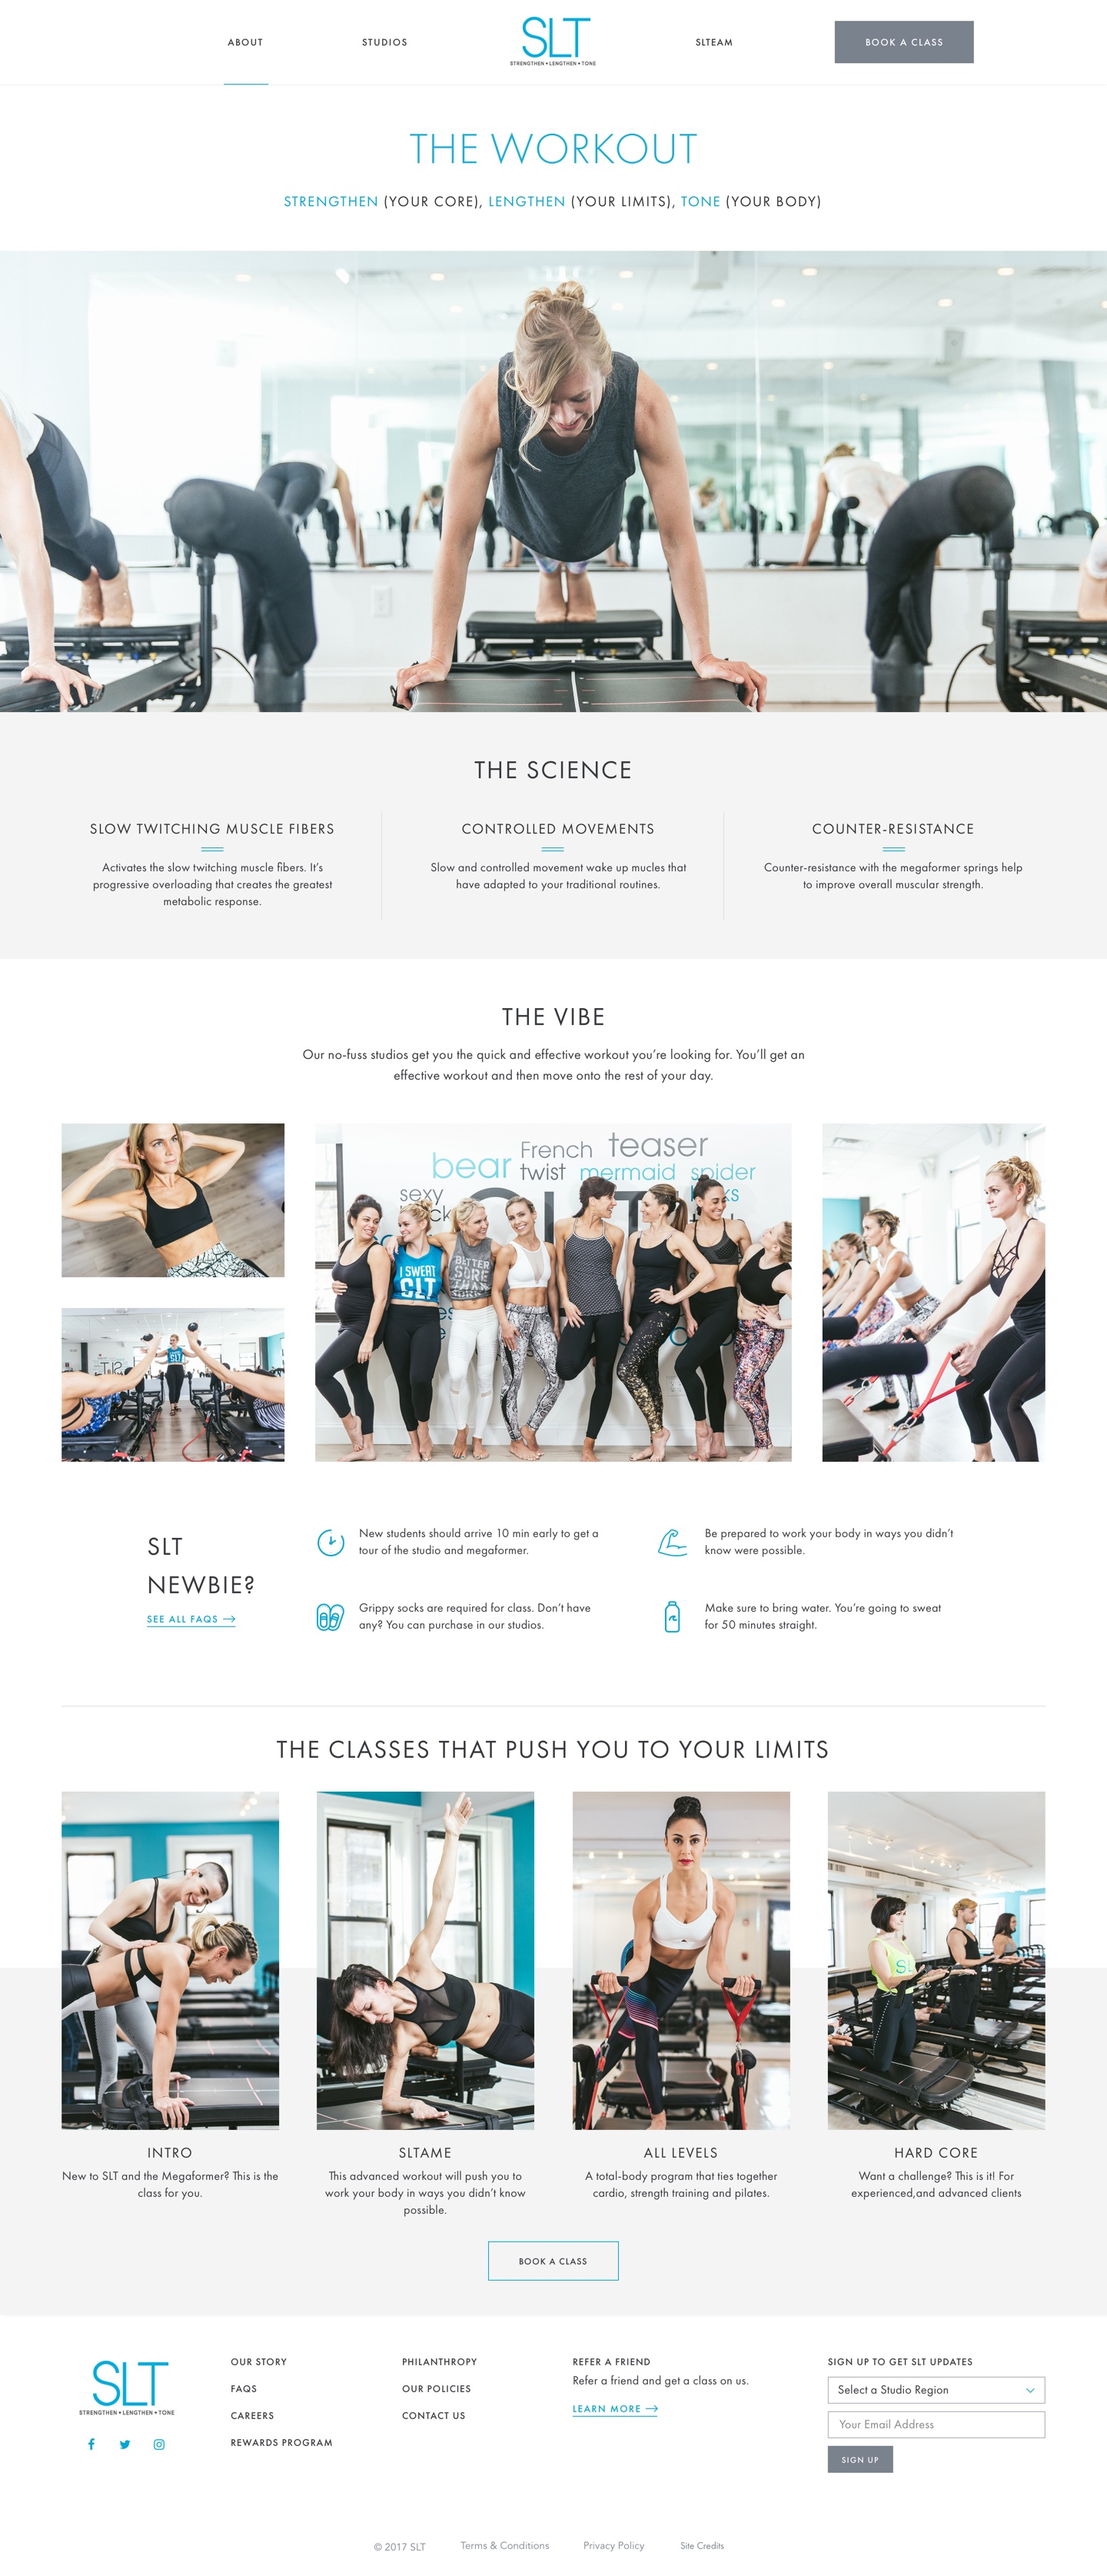
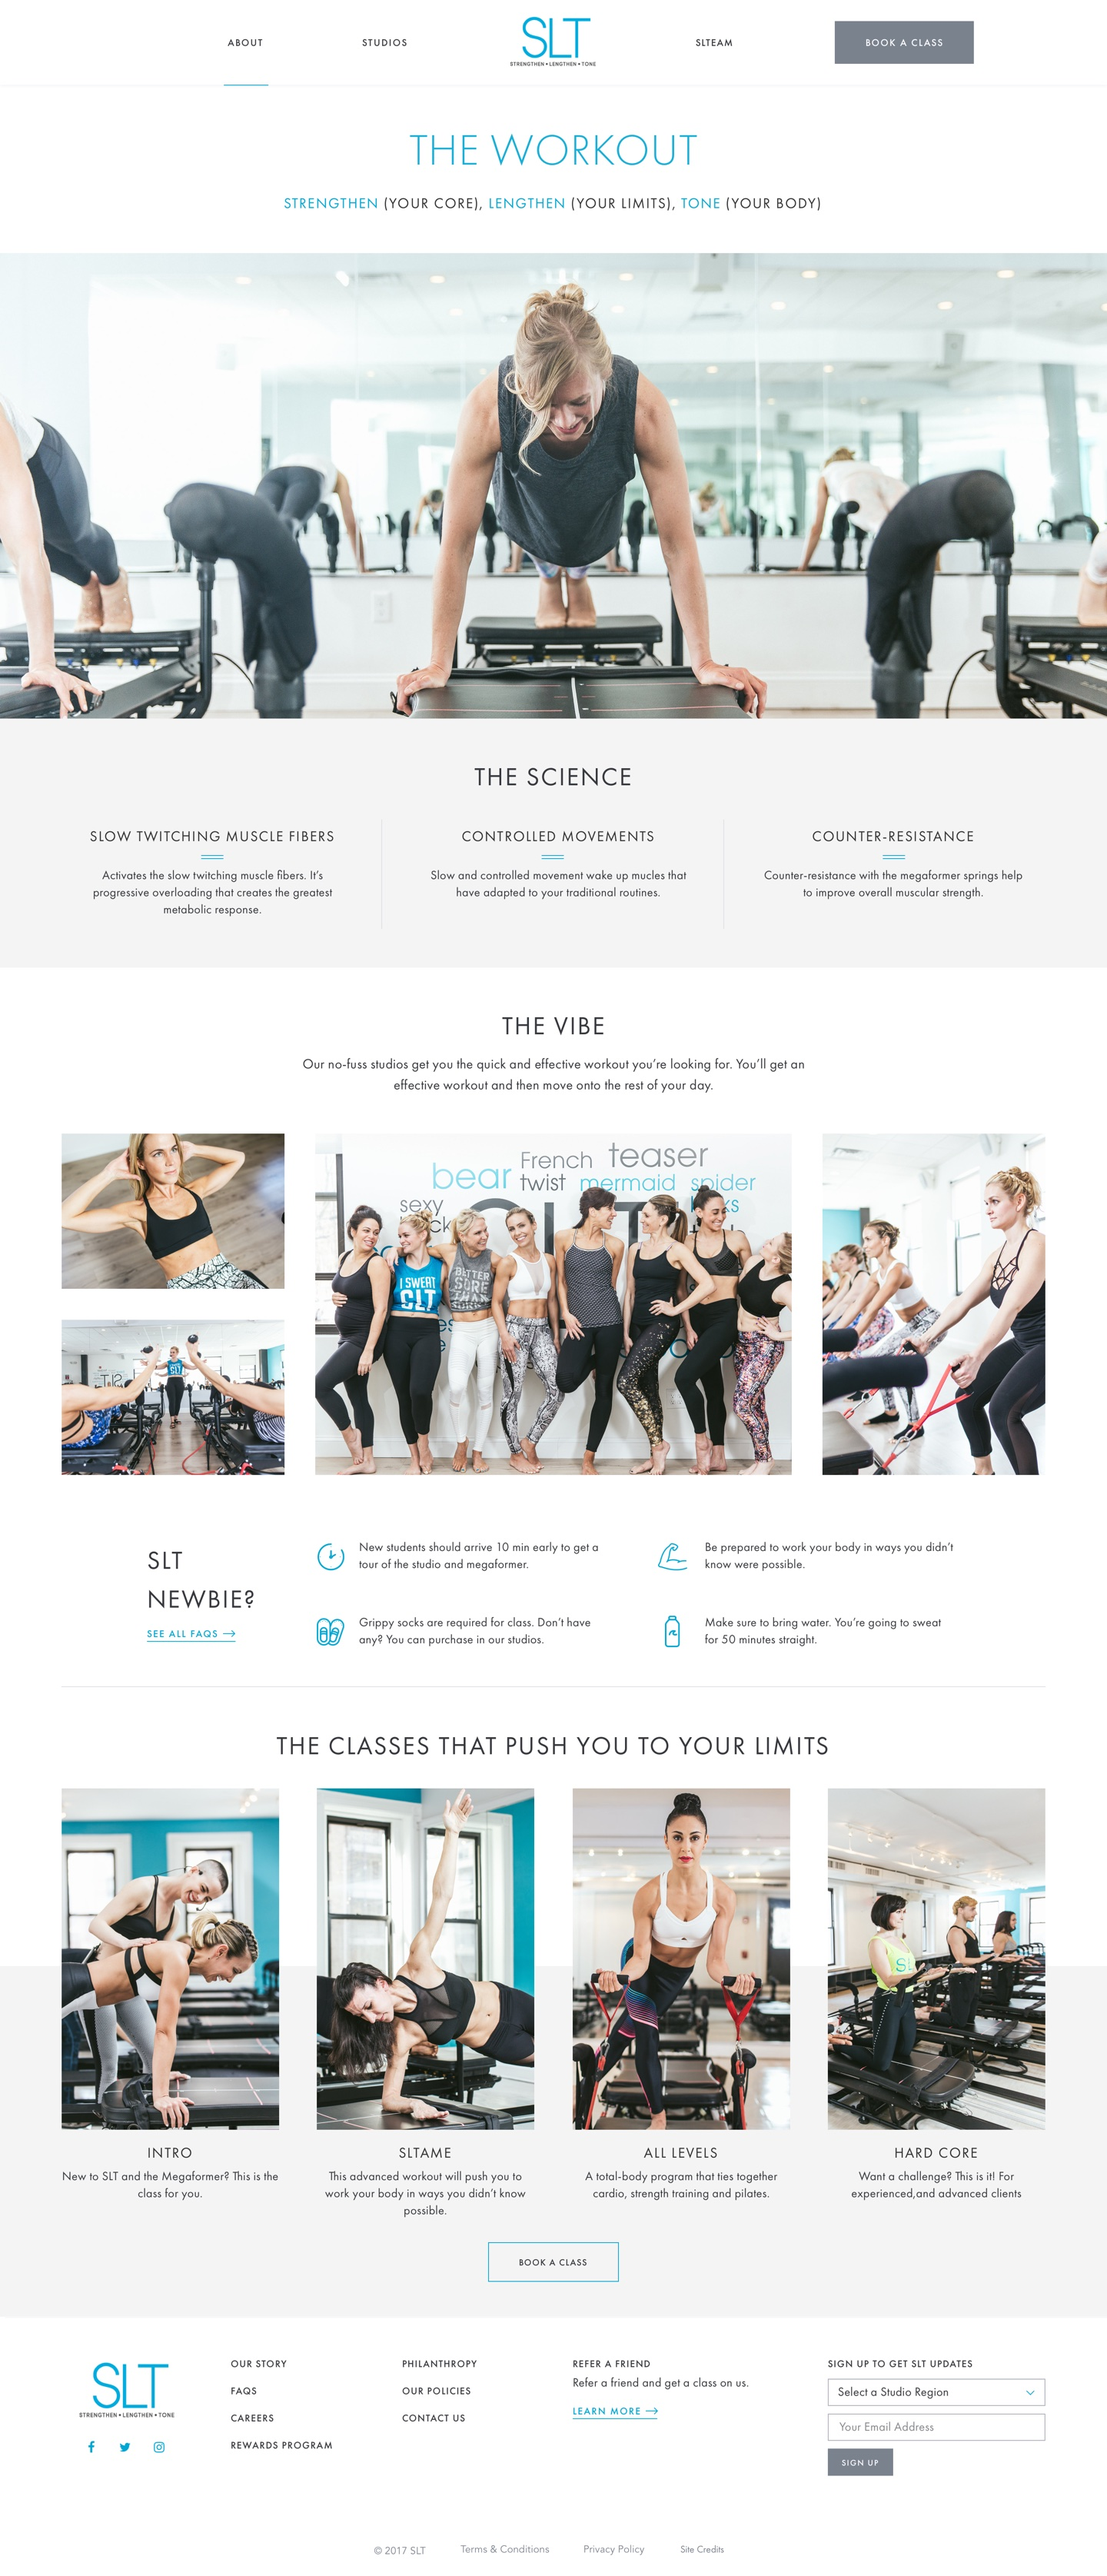
update spacing

diff --git a/slt2/slt-theworkout.hyperesources/slttheworkout_hype_generated_script.js b/slt2/slt-theworkout.hyperesources/slttheworkout_hype_generated_script.js
@@ -3,5 +3,5 @@
 (function(){(function k(){function l(a,b,d){var c=!1;null==window[a]&&(null==window[b]?(window[b]=[],window[b].push(k),a=document.getElementsByTagName("head")[0],b=document.createElement("script"),c=h,false==!0&&(c=""),b.type="text/javascript",b.src=c+"/"+d,a.appendChild(b)):window[b].push(k),c=!0);return c}var h="slt-theworkout.hyperesources",c="slt-theworkout",e="slttheworkout_hype_container";if(false==!1)try{for(var f=document.getElementsByTagName("script"),
 a=0;a<f.length;a++){var b=f[a].src,d=null!=b?b.indexOf("/slttheworkout_hype_generated_script.js"):-1;if(-1!=d){h=b.substr(0,d);break}}}catch(n){}if(false==!1&&(a=navigator.userAgent.match(/MSIE (\d+\.\d+)/),a=parseFloat(a&&a[1])||null,a=l("HYPE_584","HYPE_dtl_584",!0==(null!=a&&10>a||false==!0)?"HYPE-584.full.min.js":"HYPE-584.thin.min.js"),false==!0&&(a=a||l("HYPE_w_584","HYPE_wdtl_584","HYPE-584.waypoints.min.js")),a))return;f=window.HYPE.documents;
 if(null!=f[c]){b=1;a=c;do c=""+a+"-"+b++;while(null!=f[c]);d=document.getElementsByTagName("div");b=!1;for(a=0;a<d.length;a++)if(d[a].id==e&&null==d[a].getAttribute("HYP_dn")){var b=1,g=e;do e=""+g+"-"+b++;while(null!=document.getElementById(e));d[a].id=e;b=!0;break}if(!1==b)return}b=[];b=[{name:"untitledFunction",source:"function(hypeDocument, element, event) {\t\tmenu = hypeDocument.getElementById('menu');\n\t\tmenutwo = hypeDocument.getElementById('menutwo');\n\n\twindow.onscroll = function(){\n\t\tvar scroll = window.pageYOffset || (document.body.scrollTop || document.documentElement.scrollTop);\n\t\t\n\t\tvar menuDelta = 250;\n\t\tvar menutwoDelta = 250;\n\n\t\tif (scroll > menuDelta){\n\t\t\tmenu.classList.add('sticky')\n\t\t}\n\t\t\tif (scroll > menutwoDelta){\n\t\t\tmenutwo.classList.add('sticky')\n\t\t}\n\t\tif (scroll <= menuDelta){\n\t\t\tmenu.classList.remove('sticky')\n\t\t}\n\t\tif (scroll <= menutwoDelta){\n\t\t\tmenutwo.classList.remove('sticky')\n\t\t}\n\t};\t\n\t\n}",identifier:"15"}];d={};g={};for(a=0;a<b.length;a++)try{g[b[a].identifier]=b[a].name,d[b[a].name]=eval("(function(){return "+b[a].source+"})();")}catch(m){window.console&&window.console.log(m),d[b[a].name]=
-function(){}}a=new HYPE_584(c,e,{"3":{p:1,n:"Sticky%20Nav_v3_2x.jpg",g:"7",o:true,t:"@2x"},"-2":{n:"blank.gif"},"4":{n:"Hero-Concept-1.mov",g:"17",t:"video/quicktime"},"0":{p:1,n:"Play%20Button.png",g:"6",o:true,t:"@1x"},"5":{p:1,n:"Desktop%20-%20The%20Workout_v2.jpg",g:"5",o:true,t:"@1x"},"1":{p:1,n:"Play%20Button_2x.png",g:"6",o:true,t:"@2x"},"6":{p:1,n:"Desktop%20-%20The%20Workout_v2_2x.jpg",g:"5",o:true,t:"@2x"},"2":{p:1,n:"Sticky%20Nav_v3.jpg",g:"7",o:true,t:"@1x"},"-1":{n:"PIE.htc"}},h,[],d,[{n:"Version 1",o:"1",X:[0]},{n:"Version 2",o:"20",X:[1]}],[{A:{a:[{p:4,h:"15"}]},o:"3",p:"600px",cA:false,Y:1440,Z:3350,c:"#FFFFFF",L:[],bY:1,d:1440,U:{},T:{kTimelineDefaultIdentifier:{i:"kTimelineDefaultIdentifier",n:"Main Timeline",z:11,b:[],a:[{y:0,p:1,i:"Video Track",z:11,o:"50",f:"a"}],f:30}},bZ:180,O:["54","52","56","53","55","51","48","49","50","47","57"],n:"Untitled Layout","_":0,v:{"52":{x:"visible",k:"div",c:1440,d:40,z:1,e:1,a:0,j:"absolute",b:-176},"47":{h:"6",p:"no-repeat",x:"visible",a:685,q:"100% 100%",b:601,j:"absolute",dB:"img",z:4,k:"div",c:70,d:70,r:"inline"},"55":{b:5,z:7,K:"Solid",c:90,L:"Solid",d:15,aS:6,M:1,e:1,bD:"none",N:1,aT:6,dB:"button",O:1,g:"#F0F0F0",aU:6,P:1,bF:"52",aV:6,j:"absolute",k:"div",aI:4,aJ:4,aK:4,aL:4,A:"#A0A0A0",B:"#A0A0A0",Z:"break-word",r:"inline",C:"#A0A0A0",D:"#A0A0A0",t:13,F:"center",G:"#000000",aP:"pointer",w:"Version 2<br>",aB:{a:[{d:1.1000000000000001,p:1,g:1,e:"20"}]},x:"visible",I:"Solid",a:336,y:"preserve",J:"Solid"},"50":{aR:"1",x:"visible",bE:"17",a:0,b:2,j:"absolute",bF:"49",c:1440,k:"video",z:1,d:617,aO:"0",aQ:"1",aH:"1"},"53":{b:5,z:6,K:"Solid",c:90,L:"Solid",d:15,aS:6,M:1,e:0.40000000000000002,bD:"none",N:1,aT:6,dB:"button",O:1,g:"#F0F0F0",aU:6,P:1,bF:"52",aV:6,j:"absolute",aI:4,k:"div",aJ:4,aK:4,aL:4,A:"#A0A0A0",B:"#A0A0A0",Z:"break-word",r:"inline",C:"#A0A0A0",D:"#A0A0A0",t:13,F:"center",G:"#000000",aP:"pointer",w:"Version 1<br>",x:"visible",I:"Solid",a:222,y:"preserve",J:"Solid"},"48":{h:"5",p:"no-repeat",x:"visible",a:0,q:"100% 100%",b:-2,j:"absolute",dB:"img",z:2,k:"div",c:1440,d:3350,r:"inline"},"56":{G:"#CA3725",aU:8,aV:8,r:"inline",s:"Helvetica,Arial,Sans-Serif",t:12,Z:"break-word",v:"bold",w:"PROTOTYPE NAVIGATION<br>",bF:"52",A:"#CA3725",x:"visible",yy:"nowrap",B:"#CA3725",y:"preserve",j:"absolute",C:"#CA3725",z:5,k:"div",D:"#CA3725",aS:8,aT:8,a:34,b:5},"51":{w:"",h:"7",p:"no-repeat",x:"visible",i:"menutwo",q:"100% 100%",b:-104,a:0,j:"absolute",z:7,k:"div",dB:"img",d:69,c:1440,r:"inline"},"54":{c:1440,d:40,I:"None",J:"None",K:"None",g:"#D3D5D7",L:"None",M:0,N:0,bF:"52",A:"#D8DDE4",x:"visible",j:"absolute",B:"#D8DDE4",k:"div",O:0,C:"#D8DDE4",z:1,P:0,D:"#D8DDE4",a:0,b:0},"49":{k:"div",x:"hidden",c:1440,d:603,z:3,a:0,j:"absolute",b:323},"57":{h:"6",p:"no-repeat",x:"visible",a:685,q:"100% 100%",b:1640,j:"absolute",dB:"img",z:5,k:"div",c:70,d:70,r:"inline"}}},{A:{a:[{p:4,h:"15"}]},o:"32",p:"600px",cA:false,Y:1440,Z:3350,c:"#FFFFFF",L:[],bY:1,d:1440,U:{},T:{kTimelineDefaultIdentifier:{i:"kTimelineDefaultIdentifier",n:"Main Timeline",z:11,b:[],a:[{y:0,p:1,i:"Video Track",z:11,o:"66",f:"a"}],f:30}},bZ:180,O:["59","64","60","62","63","61","58","67","66","65"],n:"Untitled Layout","_":1,v:{"65":{x:"hidden",k:"div",c:779,cR:0.80000000000000004,d:549,z:3,a:331,j:"absolute",cQ:0.80000000000000004,b:1448},"60":{x:"visible",k:"div",c:1440,d:40,z:1,e:1,a:0,j:"absolute",b:0},"63":{b:5,z:6,K:"Solid",c:90,L:"Solid",d:15,aS:6,M:1,e:1,bD:"none",N:1,aT:6,dB:"button",O:1,g:"#F0F0F0",aU:6,P:1,bF:"60",aV:6,j:"absolute",k:"div",aI:4,aJ:4,aK:4,aL:4,A:"#A0A0A0",B:"#A0A0A0",Z:"break-word",r:"inline",C:"#A0A0A0",D:"#A0A0A0",t:13,F:"center",G:"#000000",aP:"pointer",w:"Version 1<br>",aB:{a:[{d:1.1000000000000001,p:1,g:1,e:"1"}]},x:"visible",I:"Solid",a:222,y:"preserve",J:"Solid"},"58":{h:"5",p:"no-repeat",x:"visible",a:0,q:"100% 100%",b:40,j:"absolute",dB:"img",z:2,k:"div",c:1440,d:3350,r:"inline"},"66":{aR:"1",x:"visible",bE:"17",a:-321,b:-46,j:"absolute",bF:"65",c:1440,k:"video",z:1,d:617,aO:"0",aQ:"1",aH:"1"},"61":{b:5,z:7,K:"Solid",c:90,L:"Solid",d:15,aS:6,M:1,e:0.40000000000000002,bD:"none",N:1,aT:6,dB:"button",O:1,g:"#F0F0F0",aU:6,P:1,bF:"60",aV:6,j:"absolute",aI:4,k:"div",aJ:4,aK:4,aL:4,A:"#A0A0A0",B:"#A0A0A0",Z:"break-word",r:"inline",C:"#A0A0A0",D:"#A0A0A0",t:13,F:"center",G:"#000000",aP:"pointer",w:"Version 2<br>",x:"visible",I:"Solid",a:336,y:"preserve",J:"Solid"},"64":{c:1440,d:40,I:"None",J:"None",K:"None",g:"#D3D5D7",L:"None",M:0,N:0,bF:"60",A:"#D8DDE4",x:"visible",j:"absolute",B:"#D8DDE4",k:"div",O:0,C:"#D8DDE4",z:1,P:0,D:"#D8DDE4",a:0,b:0},"59":{w:"",h:"7",p:"no-repeat",x:"visible",i:"menu",q:"100% 100%",b:-114,a:0,j:"absolute",z:6,k:"div",dB:"img",d:69,c:1440,r:"inline"},"67":{h:"6",p:"no-repeat",x:"visible",a:685,q:"100% 100%",b:643,j:"absolute",dB:"img",z:4,k:"div",c:70,d:70,r:"inline"},"62":{G:"#CA3725",aU:8,aV:8,r:"inline",s:"Helvetica,Arial,Sans-Serif",t:12,Z:"break-word",v:"bold",w:"PROTOTYPE NAVIGATION<br>",bF:"60",A:"#CA3725",x:"visible",yy:"nowrap",B:"#CA3725",y:"preserve",j:"absolute",C:"#CA3725",z:5,k:"div",D:"#CA3725",aS:8,aT:8,a:34,b:5}}}],{},g,{},null,false,true,-1,true,true,false,true);f[c]=a.API;document.getElementById(e).setAttribute("HYP_dn",
+function(){}}a=new HYPE_584(c,e,{"3":{p:1,n:"Sticky%20Nav_v3_2x.jpg",g:"7",o:true,t:"@2x"},"-2":{n:"blank.gif"},"4":{n:"Hero-Concept-1.mov",g:"17",t:"video/quicktime"},"0":{p:1,n:"Play%20Button.png",g:"6",o:true,t:"@1x"},"5":{p:1,n:"Desktop%20-%20The%20Workout_v2.jpg",g:"5",o:true,t:"@1x"},"1":{p:1,n:"Play%20Button_2x.png",g:"6",o:true,t:"@2x"},"6":{p:1,n:"Desktop%20-%20The%20Workout_v2_2x.jpg",g:"5",o:true,t:"@2x"},"2":{p:1,n:"Sticky%20Nav_v3.jpg",g:"7",o:true,t:"@1x"},"-1":{n:"PIE.htc"}},h,[],d,[{n:"Version 1",o:"1",X:[0]},{n:"Version 2",o:"20",X:[1]}],[{A:{a:[{p:4,h:"15"}]},o:"3",p:"600px",cA:false,Y:1440,Z:3350,c:"#FFFFFF",L:[],bY:1,d:1440,U:{},T:{kTimelineDefaultIdentifier:{i:"kTimelineDefaultIdentifier",n:"Main Timeline",z:11,b:[],a:[{y:0,p:1,i:"Video Track",z:11,o:"50",f:"a"}],f:30}},bZ:180,O:["55","53","57","54","56","51","48","49","50","47","52"],n:"Untitled Layout","_":0,v:{"52":{h:"6",p:"no-repeat",x:"visible",a:685,q:"100% 100%",b:1640,j:"absolute",dB:"img",z:5,k:"div",c:70,d:70,r:"inline"},"47":{h:"6",p:"no-repeat",x:"visible",a:685,q:"100% 100%",b:601,j:"absolute",dB:"img",z:4,k:"div",c:70,d:70,r:"inline"},"55":{c:1440,d:40,I:"None",J:"None",K:"None",g:"#D3D5D7",L:"None",M:0,N:0,bF:"53",A:"#D8DDE4",x:"visible",j:"absolute",B:"#D8DDE4",k:"div",O:0,C:"#D8DDE4",z:1,P:0,D:"#D8DDE4",a:0,b:0},"50":{aR:"1",x:"visible",bE:"17",a:0,b:2,j:"absolute",bF:"49",c:1440,k:"video",z:1,d:617,aO:"0",aQ:"1",aH:"1"},"53":{x:"visible",k:"div",c:1440,d:40,z:1,e:1,a:0,j:"absolute",b:-176},"48":{h:"5",p:"no-repeat",x:"visible",a:0,q:"100% 100%",b:-2,j:"absolute",dB:"img",z:2,k:"div",c:1440,d:3350,r:"inline"},"56":{b:5,z:7,K:"Solid",c:90,L:"Solid",d:15,aS:6,M:1,e:1,bD:"none",N:1,aT:6,dB:"button",O:1,g:"#F0F0F0",aU:6,P:1,bF:"53",aV:6,j:"absolute",k:"div",aI:4,aJ:4,aK:4,aL:4,A:"#A0A0A0",B:"#A0A0A0",Z:"break-word",r:"inline",C:"#A0A0A0",D:"#A0A0A0",t:13,F:"center",G:"#000000",aP:"pointer",w:"Version 2<br>",aB:{a:[{d:1.1000000000000001,p:1,g:1,e:"20"}]},x:"visible",I:"Solid",a:336,y:"preserve",J:"Solid"},"51":{w:"",h:"7",p:"no-repeat",x:"visible",i:"menutwo",q:"100% 100%",b:-104,a:0,j:"absolute",z:7,k:"div",dB:"img",d:69,c:1440,r:"inline"},"54":{b:5,z:6,K:"Solid",c:90,L:"Solid",d:15,aS:6,M:1,e:0.40000000000000002,bD:"none",N:1,aT:6,dB:"button",O:1,g:"#F0F0F0",aU:6,P:1,bF:"53",aV:6,j:"absolute",aI:4,k:"div",aJ:4,aK:4,aL:4,A:"#A0A0A0",B:"#A0A0A0",Z:"break-word",r:"inline",C:"#A0A0A0",D:"#A0A0A0",t:13,F:"center",G:"#000000",aP:"pointer",w:"Version 1<br>",x:"visible",I:"Solid",a:222,y:"preserve",J:"Solid"},"49":{k:"div",x:"hidden",c:1440,d:611,z:3,a:0,j:"absolute",b:323},"57":{G:"#CA3725",aU:8,aV:8,r:"inline",s:"Helvetica,Arial,Sans-Serif",t:12,Z:"break-word",v:"bold",w:"PROTOTYPE NAVIGATION<br>",bF:"53",A:"#CA3725",x:"visible",yy:"nowrap",B:"#CA3725",y:"preserve",j:"absolute",C:"#CA3725",z:5,k:"div",D:"#CA3725",aS:8,aT:8,a:34,b:5}}},{A:{a:[{p:4,h:"15"}]},o:"32",p:"600px",cA:false,Y:1440,Z:3350,c:"#FFFFFF",L:[],bY:1,d:1440,U:{},T:{kTimelineDefaultIdentifier:{i:"kTimelineDefaultIdentifier",n:"Main Timeline",z:11,b:[],a:[{y:0,p:1,i:"Video Track",z:11,o:"66",f:"a"}],f:30}},bZ:180,O:["59","64","60","62","63","61","58","67","66","65"],n:"Untitled Layout","_":1,v:{"65":{x:"hidden",k:"div",c:779,cR:0.80000000000000004,d:549,z:3,a:331,j:"absolute",cQ:0.80000000000000004,b:1448},"60":{x:"visible",k:"div",c:1440,d:40,z:1,e:1,a:0,j:"absolute",b:0},"63":{b:5,z:6,K:"Solid",c:90,L:"Solid",d:15,aS:6,M:1,e:1,bD:"none",N:1,aT:6,dB:"button",O:1,g:"#F0F0F0",aU:6,P:1,bF:"60",aV:6,j:"absolute",k:"div",aI:4,aJ:4,aK:4,aL:4,A:"#A0A0A0",B:"#A0A0A0",Z:"break-word",r:"inline",C:"#A0A0A0",D:"#A0A0A0",t:13,F:"center",G:"#000000",aP:"pointer",w:"Version 1<br>",aB:{a:[{d:1.1000000000000001,p:1,g:1,e:"1"}]},x:"visible",I:"Solid",a:222,y:"preserve",J:"Solid"},"58":{h:"5",p:"no-repeat",x:"visible",a:0,q:"100% 100%",b:40,j:"absolute",dB:"img",z:2,k:"div",c:1440,d:3350,r:"inline"},"66":{aR:"1",x:"visible",bE:"17",a:-321,b:-46,j:"absolute",bF:"65",c:1440,k:"video",z:1,d:617,aO:"0",aQ:"1",aH:"1"},"61":{b:5,z:7,K:"Solid",c:90,L:"Solid",d:15,aS:6,M:1,e:0.40000000000000002,bD:"none",N:1,aT:6,dB:"button",O:1,g:"#F0F0F0",aU:6,P:1,bF:"60",aV:6,j:"absolute",aI:4,k:"div",aJ:4,aK:4,aL:4,A:"#A0A0A0",B:"#A0A0A0",Z:"break-word",r:"inline",C:"#A0A0A0",D:"#A0A0A0",t:13,F:"center",G:"#000000",aP:"pointer",w:"Version 2<br>",x:"visible",I:"Solid",a:336,y:"preserve",J:"Solid"},"64":{c:1440,d:40,I:"None",J:"None",K:"None",g:"#D3D5D7",L:"None",M:0,N:0,bF:"60",A:"#D8DDE4",x:"visible",j:"absolute",B:"#D8DDE4",k:"div",O:0,C:"#D8DDE4",z:1,P:0,D:"#D8DDE4",a:0,b:0},"59":{w:"",h:"7",p:"no-repeat",x:"visible",i:"menu",q:"100% 100%",b:-114,a:0,j:"absolute",z:6,k:"div",dB:"img",d:69,c:1440,r:"inline"},"67":{h:"6",p:"no-repeat",x:"visible",a:685,q:"100% 100%",b:643,j:"absolute",dB:"img",z:4,k:"div",c:70,d:70,r:"inline"},"62":{G:"#CA3725",aU:8,aV:8,r:"inline",s:"Helvetica,Arial,Sans-Serif",t:12,Z:"break-word",v:"bold",w:"PROTOTYPE NAVIGATION<br>",bF:"60",A:"#CA3725",x:"visible",yy:"nowrap",B:"#CA3725",y:"preserve",j:"absolute",C:"#CA3725",z:5,k:"div",D:"#CA3725",aS:8,aT:8,a:34,b:5}}}],{},g,{},null,false,true,-1,true,true,false,true);f[c]=a.API;document.getElementById(e).setAttribute("HYP_dn",
 c);a.z_o(this.body)})();})();

diff --git a/slt2/slt-theworkout.html b/slt2/slt-theworkout.html
@@ -57,7 +57,7 @@
 	<!-- copy these lines to your document: -->
 
 	<div id="slttheworkout_hype_container" style="margin:auto;position:relative;width:1440px;height:3350px;overflow:hidden;">
-		<script type="text/javascript" charset="utf-8" src="slt-theworkout.hyperesources/slttheworkout_hype_generated_script.js?20137"></script>
+		<script type="text/javascript" charset="utf-8" src="slt-theworkout.hyperesources/slttheworkout_hype_generated_script.js?57543"></script>
 	</div>
 
 	<!-- end copy -->
